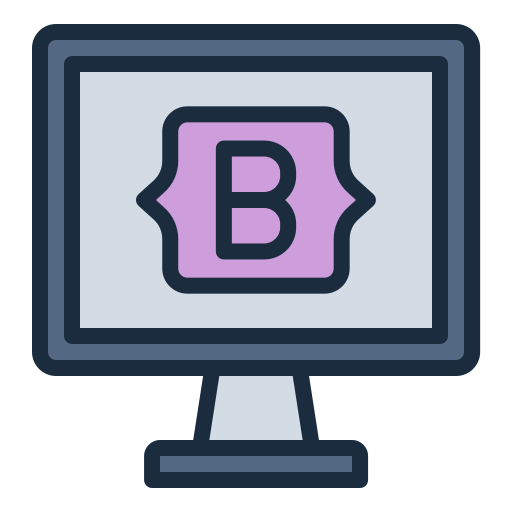
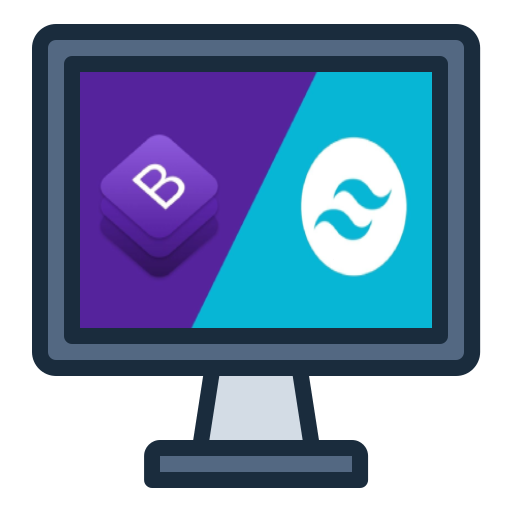
Service Section Updated

diff --git a/index.html b/index.html
@@ -124,7 +124,7 @@
               <a
                 target="_blank"
                 rel="noopener noreferrer"
-                href="https://devonrun.com/"
+                href="https://devonrun.com/category/all-tech/dev-corner/"
                 class="text-neutral fw-700"
                 ><span>Blog</span>
               </a>
@@ -209,7 +209,9 @@
       <div>
         <div class="project-container row">
           <div class="project-card" data-aos="zoom-left">
-            <h3 class="project-title">Blinqpay Langing Page</h3>
+            <h3 class="project-title">
+              Blinqpay Langing Page -<code> HTML CSS JS</code>
+            </h3>
             <div class="project-screenshot">
               <img
                 src="./resources/images/project-blinqpay.png"
@@ -229,44 +231,33 @@
             </div>
           </div>
           <div class="project-card" data-aos="flip-right">
-            <h3 class="project-title">CSS Grid Challenge</h3>
+            <h3 class="project-title">Devonrun.com -<code> Wordpress</code></h3>
             <div class="project-screenshot">
-              <img
-                src="./resources/images/project-css-grid.png"
-                alt="Project Css Grid"
-              />
+              <img src="./resources/images/devonrun.png" alt="Devonrun.com" />
             </div>
             <div class="project-links">
-              <a
-                href="https://github.com/avroshaheen/frontendmentor-css-grid-challenge/"
-                class="code"
-                >Source Code</a
-              ><a
-                href="https://avroshaheen.github.io/frontendmentor-css-grid-challenge/"
-                class="live"
-                >Live Project</a
-              >
+              <a href="https://Devonrun.com/" class="live">Live Project</a>
             </div>
           </div>
           <div class="project-card" data-aos="flip-left">
-            <h3 class="project-title">QR Code Component</h3>
+            <h3 class="project-title">Korje Hasana -<code> Wordpress</code></h3>
+
             <div class="project-screenshot">
-              <img src="./resources/images/project-qr-code.png" alt="QRCode" />
+              <img
+                src="./resources/images/project-hasana.png"
+                alt="Project Hasana"
+              />
             </div>
             <div class="project-links">
-              <a
-                href="https://github.com/avroshaheen/qr-code-component/"
-                class="code"
-                >Source Code</a
-              ><a
-                href="https://avroshaheen.github.io/qr-code-component/"
-                class="live"
+              <a href="#" class="live" title="Site Not Deployed Yet"
                 >Live Project</a
               >
             </div>
           </div>
           <div class="project-card" data-aos="flip-right">
-            <h3 class="project-title">PingPong Score Keeper</h3>
+            <h3 class="project-title">
+              PingPong Score Keeper -<code> HTML CSS JS</code>
+            </h3>
             <div class="project-screenshot">
               <img
                 src="./resources/images/project-score-keeper.png"
@@ -298,68 +289,46 @@
         web experiences.
       </p>
       <div class="row services__list">
-        <!-- Web Design & Development -->
+        <!-- Raw Code Development -->
         <div class="services__item services__item" data-aos="flip-left">
           <img
             src="./resources/images/web-development.png"
             class="services__item-icon"
-            alt="Web Development"
+            alt="Raw Code Development"
           />
-          <h3 class="services__item-title">Web Design & Development</h3>
+          <h3 class="services__item-title">Raw Code Development</h3>
           <p class="services__item-desc">
-            Create visually appealing, responsive websites using HTML, CSS, and
-            JavaScript.
+            Build hand-coded HTML/CSS/JS websites, custom portfolios, and
+            cleanly convert Figma/XD designs to code—all without relying on
+            frameworks.
           </p>
         </div>
-        <!-- Landing Page Design -->
+
+        <!-- Make on Wordpress -->
         <div class="services__item" data-aos="flip-right">
           <img
-            src="./resources/images/landing-page.png"
+            src="./resources/images/wordpress.png"
             class="services__item-icon"
-            alt="Landing Page Development"
+            alt="Make On Wordpress"
           />
-          <h3 class="services__item-title">Landing Page Design</h3>
+          <h3 class="services__item-title">Make on Wordpress</h3>
           <p class="services__item-desc">
-            Design and develop high-converting landing pages with a mobile-first
-            approach.
+            Build any WordPress site: portfolios, blogs, business platforms, NGO
+            sites, or personal spaces – with custom templates, landing pages,
+            and easy-to-manage functionality.
           </p>
         </div>
-        <!-- Portfolio Websites -->
-        <div class="services__item" data-aos="flip-left">
-          <img
-            src="./resources/images/portfolio.png"
-            class="services__item-icon"
-            alt="Portfolio Development"
-          />
-          <h3 class="services__item-title">Portfolio Websites</h3>
-          <p class="services__item-desc">
-            Build personal portfolio websites to showcase your skills and
-            projects.
-          </p>
-        </div>
-        <!-- Design to HTML (Figma, XD, PSD) -->
-        <div class="services__item" data-aos="flip-right">
-          <img
-            src="./resources/images/figma.png"
-            class="services__item-icon"
-            alt="Figma Conversion"
-          />
-          <h3 class="services__item-title">Design to HTML</h3>
-          <p class="services__item-desc">
-            Convert Figma, XD, or PSD designs into responsive, pixel-perfect
-            websites.
-          </p>
-        </div>
-        <!-- Bootstrap Websites -->
+        <!-- Framework-Driven Development -->
         <div class="services__item" data-aos="flip-left">
           <img
             src="./resources/images/bootstrap.png"
             class="services__item-icon"
-            alt="Bootstrap Development"
+            alt="Framework-Driven Development"
           />
-          <h3 class="services__item-title">Bootstrap Websites</h3>
+          <h3 class="services__item-title">Framework-Driven Development</h3>
           <p class="services__item-desc">
-            Develop fast, responsive websites using the Bootstrap framework.
+            Bootstrap/Tailwind projects for rapid deployment in both code and
+            CMS environments.
           </p>
         </div>
       </div>
@@ -370,9 +339,7 @@
     <section id="contact" class="contact row">
       <div>
         <h2 data-aos="fade-right">Contact</h2>
-        <p id="status" data-aos="fade-left">
-          Reach out to start your next web project
-        </p>
+        <p data-aos="fade-left">Reach out to start your next web project</p>
       </div>
       <div class="contact-grid row">
         <div class="geo-map" data-aos="zoom-in">

diff --git a/resources/css/app.css b/resources/css/app.css
@@ -8,7 +8,7 @@
   --clr-greyish: #6c757d;
   --clr-blueish: #1d3557;
   --clr-accent: #2a6f97;
-  --clr-redish: #D61A3C;
+  --clr-redish: #d61a3c;
   --clr-pinkish: #ffffffa0;
   /* Font Weights */
   --fw-400: 400;
@@ -17,7 +17,7 @@
   --fw-700: 700;
   --fw-800: 800;
   /* Font Sizes */
-  --fs-200: .9rem;
+  --fs-200: 0.9rem;
   --fs-300: 1rem;
   --fs-400: 1.2rem;
   --fs-450: 1.4rem;
@@ -170,7 +170,7 @@ h2::after {
   background: linear-gradient(to right, #ffffffad, #28c7d6);
 }
 
-h2+p {
+h2 + p {
   font-size: var(--fs-300);
   color: var(--clr-neutral);
   text-align: center;
@@ -213,10 +213,12 @@ section {
 /* --------------------------------- Navbar --------------------------------- */
 .navbar {
   height: 40px;
-  background: linear-gradient(to right,
-      var(--clr-blueish) 0%,
-      var(--clr-blueish) 1%,
-      var(--clr-accent) 100%);
+  background: linear-gradient(
+    to right,
+    var(--clr-blueish) 0%,
+    var(--clr-blueish) 1%,
+    var(--clr-accent) 100%
+  );
   transition: background-color 0.3s ease;
 }
 
@@ -345,9 +347,11 @@ section {
   gap: var(--space-md);
   justify-content: center;
   gap: var(--space-lg);
-  background: radial-gradient(circle at center,
-      var(--clr-blueish),
-      var(--clr-accent));
+  background: radial-gradient(
+    circle at center,
+    var(--clr-blueish),
+    var(--clr-accent)
+  );
 }
 
 .hero-image {
@@ -430,9 +434,11 @@ section {
 /*                                Works/Projects Section                      */
 /* -------------------------------------------------------------------------- */
 .works {
-  background: radial-gradient(circle at center,
-      var(--clr-accent),
-      var(--clr-blueish));
+  background: radial-gradient(
+    circle at center,
+    var(--clr-accent),
+    var(--clr-blueish)
+  );
 }
 
 .project-container {
@@ -449,7 +455,7 @@ section {
   border: 1px solid rgba(255, 255, 255, 0.2);
   border-radius: 4px;
   padding: var(--space-xs);
-  transition: .3s ease-in-out;
+  transition: 0.3s ease-in-out;
   box-shadow: 0 4px 6px rgba(0, 0, 0, 0.1), 0 1px 3px rgba(0, 0, 0, 0.08);
 }
 
@@ -489,9 +495,11 @@ section {
 /*                               Service Section                              */
 /* -------------------------------------------------------------------------- */
 .services {
-  background: radial-gradient(circle at center,
-      var(--clr-blueish),
-      var(--clr-accent));
+  background: radial-gradient(
+    circle at center,
+    var(--clr-blueish),
+    var(--clr-accent)
+  );
 }
 
 .services__list {
@@ -513,7 +521,7 @@ section {
   border: 1px solid rgba(255, 255, 255, 0.2);
   border-radius: 4px;
   box-shadow: 0 4px 6px rgba(0, 0, 0, 0.1), 0 1px 3px rgba(0, 0, 0, 0.08);
-  transition: .3s ease-in-out;
+  transition: 0.3s ease-in-out;
 }
 
 .services__item:hover {
@@ -542,9 +550,7 @@ section {
 /*                               Contact Section                              */
 /* -------------------------------------------------------------------------- */
 .contact {
-  background: linear-gradient(to left,
-      var(--clr-accent),
-      var(--clr-blueish));
+  background: linear-gradient(to left, var(--clr-accent), var(--clr-blueish));
 }
 
 .contact-grid {
@@ -615,15 +621,32 @@ input {
 .send-mail:hover {
   background: rgba(255, 255, 255, 0.2);
 }
+#status {
+  font-size: var(--fs-300);
+  color: var(--clr-neutral);
+  padding: 0.5em 1em;
+  width: 50%;
+  display: none;
+  font-weight: bold;
+  background: rgba(255, 255, 255, 0.1);
+  backdrop-filter: blur(10px);
+  border: 1px solid rgba(255, 255, 255, 0.2);
+  border-radius: 4px;
+  position: relative;
+  transition: 0.3s ease-in-out;
+  box-shadow: 0 4px 6px rgba(0, 0, 0, 0.1), 0 1px 3px rgba(0, 0, 0, 0.08);
+}
 
 /* -------------------------------------------------------------------------- */
 /*                               Footer Section                               */
 /* -------------------------------------------------------------------------- */
 .footer {
-  background: linear-gradient(to left,
-      var(--clr-blueish) 10%,
-      var(--clr-accent) 0%,
-      var(--clr-blueish) 10%);
+  background: linear-gradient(
+    to left,
+    var(--clr-blueish) 10%,
+    var(--clr-accent) 0%,
+    var(--clr-blueish) 10%
+  );
   display: flex;
   flex-direction: column;
   gap: var(--space-lg);
@@ -659,7 +682,7 @@ input {
 }
 
 .credit {
-  font-size: .8rem;
+  font-size: 0.8rem;
   line-height: 1;
   color: #ffffffb7;
   text-align: center;

diff --git a/resources/js/app.js b/resources/js/app.js
@@ -69,13 +69,15 @@ document.addEventListener("DOMContentLoaded", function () {
   })();
   const contactForm = document.getElementById("contactForm");
   const statusMessage = document.getElementById("status");
+
   if (contactForm) {
     contactForm.addEventListener("submit", function (event) {
       event.preventDefault();
       emailjs
         .sendForm("getjob_avro", "template_tmavbum", this)
         .then(() => {
-          statusMessage.innerText = "✅ Message sent successfully!";
+          statusMessage.style.display = "block";
+          statusMessage.innerText = "📨 I got you! I'll get back to you soon.";
           statusMessage.style.color = "white";
           contactForm.reset(); // Clear form fields after success
         })
